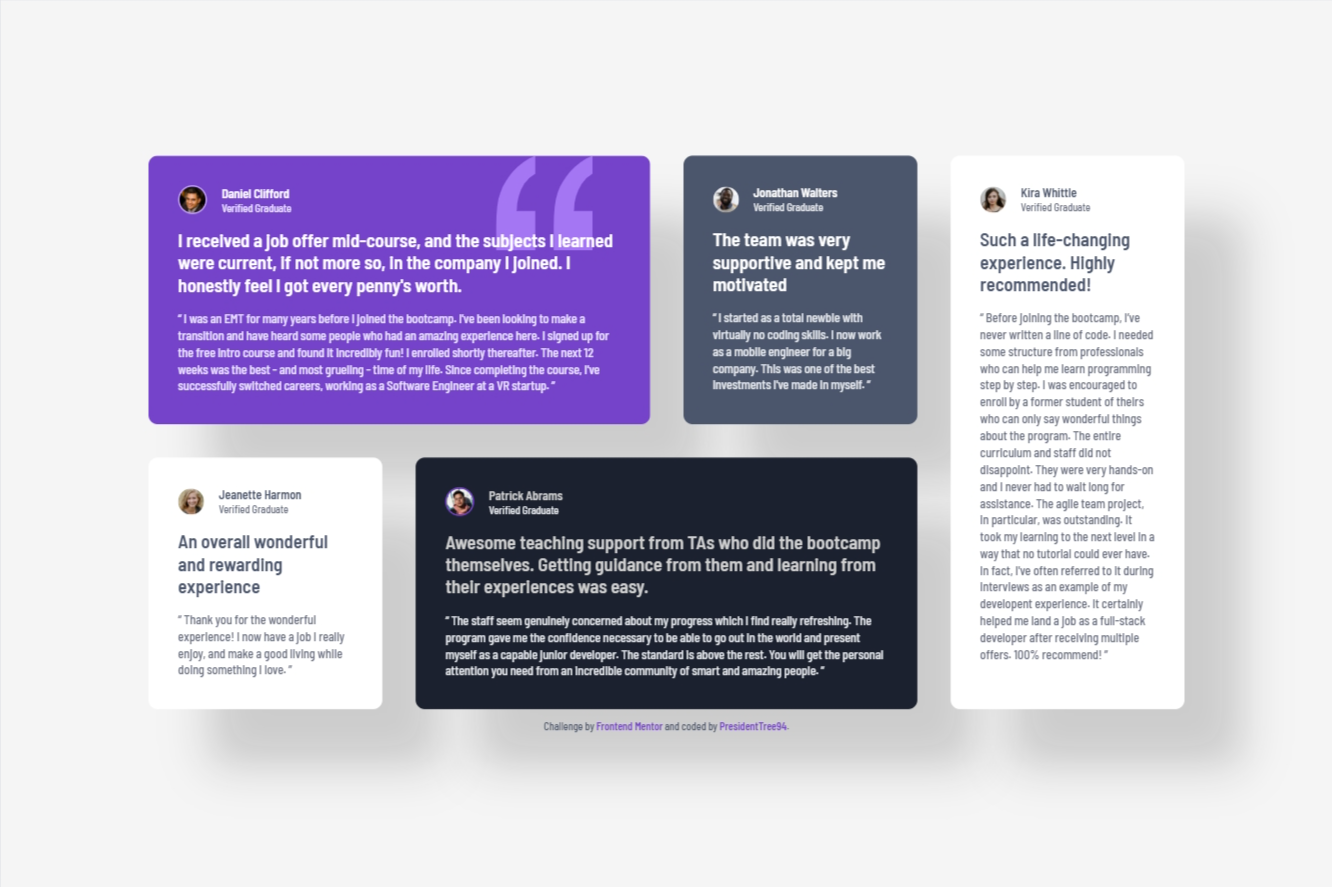
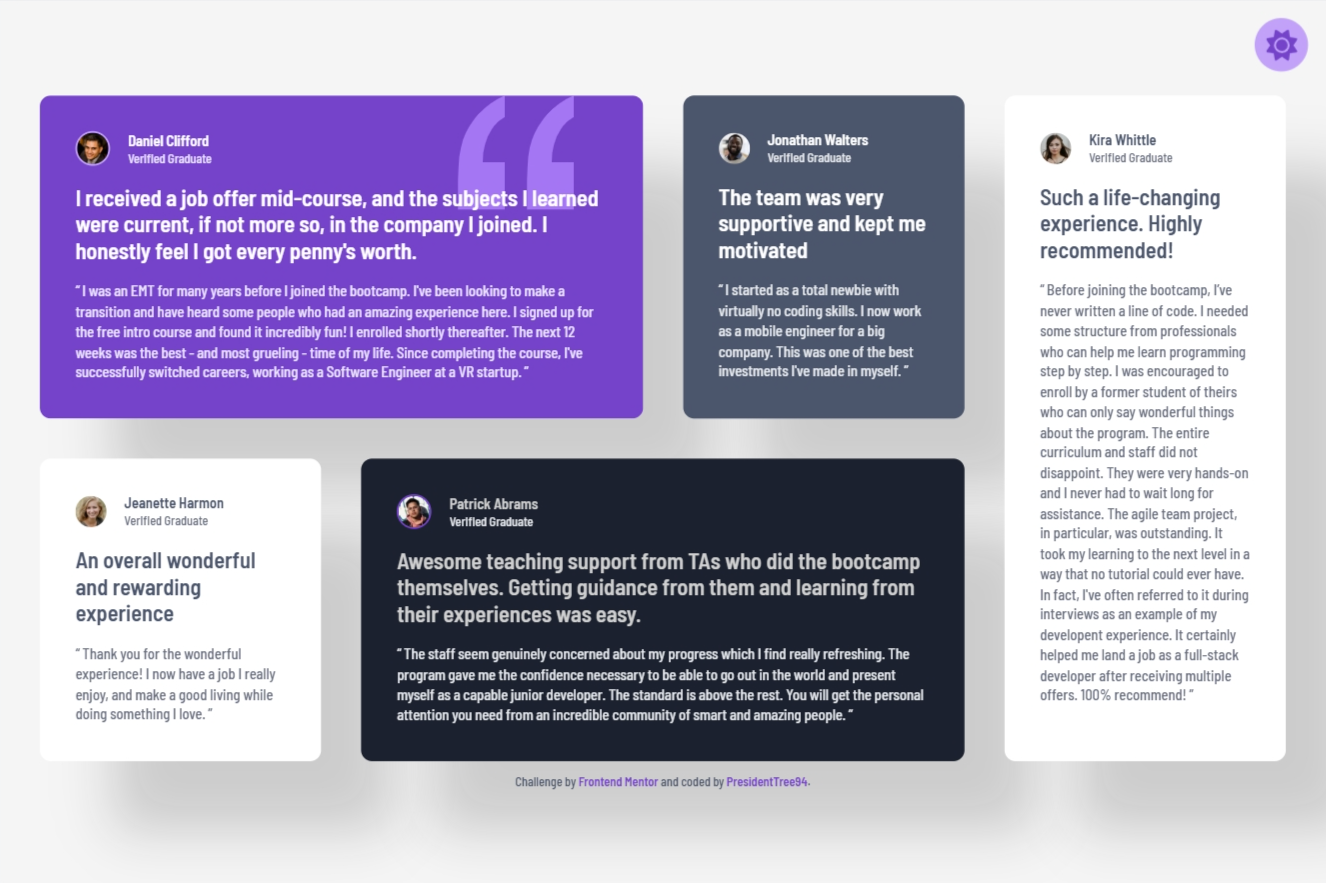
Add files via upload

diff --git a/alt-mode/toggle.js b/alt-mode/toggle.js
@@ -1,0 +1,54 @@
+//Find the toggle button and generate an empty SVG
+const toggleButton = document.getElementById("toggle");
+const icon = document.createElementNS("http://www.w3.org/2000/svg", "svg");
+icon.setAttribute("xmlns", "http://www.w3.org/2000/svg");
+const path = document.createElementNS("http://www.w3.org/2000/svg", "path");
+icon.appendChild(path);
+toggleButton.appendChild(icon);
+
+//Constants for the local storage key, mode class, and icons
+const ALT_MODE_KEY = "alt-mode";
+const ALT_MODE_CLASS = "altMode";
+const MOON_ICON = {
+  viewBox: "0 0 384 512",
+  path: "M223.5 32C100 32 0 132.3 0 256S100 480 223.5 480c60.6 0 115.5-24.2 155.8-63.4c5-4.9 6.3-12.5 3.1-18.7s-10.1-9.7-17-8.5c-9.8 1.7-19.8 2.6-30.1 2.6c-96.9 0-175.5-78.8-175.5-176c0-65.8 36-123.1 89.3-153.3c6.1-3.5 9.2-10.5 7.7-17.3s-7.3-11.9-14.3-12.5c-6.3-.5-12.6-.8-19-.8z"
+};
+const SUN_ICON = {
+  viewBox: "0 0 512 512",
+  path: "M361.5 1.2c5 2.1 8.6 6.6 9.6 11.9L391 121l107.9 19.8c5.3 1 9.8 4.6 11.9 9.6s1.5 10.7-1.6 15.2L446.9 256l62.3 90.3c3.1 4.5 3.7 10.2 1.6 15.2s-6.6 8.6-11.9 9.6L391 391 371.1 498.9c-1 5.3-4.6 9.8-9.6 11.9s-10.7 1.5-15.2-1.6L256 446.9l-90.3 62.3c-4.5 3.1-10.2 3.7-15.2 1.6s-8.6-6.6-9.6-11.9L121 391 13.1 371.1c-5.3-1-9.8-4.6-11.9-9.6s-1.5-10.7 1.6-15.2L65.1 256 2.8 165.7c-3.1-4.5-3.7-10.2-1.6-15.2s6.6-8.6 11.9-9.6L121 121 140.9 13.1c1-5.3 4.6-9.8 9.6-11.9s10.7-1.5 15.2 1.6L256 65.1 346.3 2.8c4.5-3.1 10.2-3.7 15.2-1.6zM160 256a96 96 0 1 1 192 0 96 96 0 1 1 -192 0zm224 0a128 128 0 1 0 -256 0 128 128 0 1 0 256 0z"
+};
+
+//Sets the icon to represent the mode depending on data-default
+function setIcon(isAltMode) {
+  const defaultMode = toggleButton.dataset.default;
+  const iconData = defaultMode === "moon" ? isAltMode ? SUN_ICON : MOON_ICON : 
+  defaultMode === "sun" ? isAltMode ? MOON_ICON : SUN_ICON : null;
+  icon.setAttribute("viewBox", iconData.viewBox);
+  path.setAttribute("d", iconData.path);
+}
+
+//Initializes the mode, sets the current one
+function initMode() {
+  const altMode = localStorage.getItem(ALT_MODE_KEY) === "true";
+
+  if (altMode) {
+    document.body.classList.add(ALT_MODE_CLASS);
+  } else {
+    document.body.classList.remove(ALT_MODE_CLASS);
+  }
+
+  setIcon(altMode);
+}
+
+//Toggles the mode, temporarily disabling transitions (except #toggle)
+function toggleMode() {
+  document.body.classList.add("disable-transitions");
+  const altMode = document.body.classList.toggle(ALT_MODE_CLASS);
+  localStorage.setItem(ALT_MODE_KEY, altMode);
+  setIcon(altMode);
+  void document.body.offsetWidth;
+  setTimeout(() => { document.body.classList.remove("disable-transitions"); }, 10);
+}
+
+initMode();
+toggleButton.addEventListener("click", toggleMode);

diff --git a/index.html b/index.html
@@ -4,6 +4,8 @@
   <meta charset="UTF-8">
   <meta name="viewport" content="width=device-width, initial-scale=1.0">
   <link rel="icon" type="image/png" sizes="32x32" href="./images/favicon-32x32.png">
+  <link rel="stylesheet" href="style.css">
+  <link rel="stylesheet" href="alt-mode/toggle-style.css">
   <link rel="preconnect" href="https://fonts.googleapis.com">
   <link rel="preconnect" href="https://fonts.gstatic.com" crossorigin>
   <link href="https://fonts.googleapis.com/css2?family=Barlow+Semi+Condensed:ital,wght@0,100;0,200;0,300;0,400;0,500;0,600;0,700;0,800;0,900;1,100;1,200;1,300;1,400;1,500;1,600;1,700;1,800;1,900&display=swap" rel="stylesheet">
@@ -12,6 +14,7 @@
 </head>
 <body>
   <div class="container">
+    <div id="toggle" data-default="sun"></div>
     <main>
       <section>
         <article class="daniel">
@@ -75,5 +78,6 @@
       </footer>
     </main>
   </div>
+  <script src="alt-mode/toggle.js"></script>
 </body>
 </html>

diff --git a/style.css b/style.css
@@ -11,6 +11,15 @@
   --antiFlashWhite: rgb(231, 234, 238);
 }
 
+.altMode {
+  --whiteSmoke: rgb(10, 10, 10);
+  --blueViolet: rgb(92, 40, 175);
+  --mauve: rgb(171, 137, 221);
+  --paynesGray: rgb(97, 110, 131);
+  --white: rgb(230, 230, 230);
+  --raisinBlack: rgb(50, 58, 71);
+}
+
 * {
   margin: 0;
   padding: 0;
@@ -33,6 +42,14 @@ body {
   display: flex;
   justify-content: center;
   align-items: center;
+}
+
+#toggle {
+  background-color: var(--mauve);
+}
+
+svg {
+  fill: var(--blueViolet);
 }
 
 main {

diff --git a/alt-mode/toggle-style.css b/alt-mode/toggle-style.css
@@ -1,0 +1,25 @@
+#toggle {
+  position: fixed;
+  top: 1rem;
+  right: 1rem;
+  border-radius: 100%;
+  display: flex;
+  justify-content: center;
+  align-items: center;
+  height: 3rem;
+  width: 3rem;
+  z-index: 1;
+  transition: transform 0.3s ease;
+}
+
+#toggle:hover {
+  cursor: pointer;
+}
+
+#toggle:active {
+  transform: scale(0.9);
+}
+
+svg {
+  height: 1.75rem;
+}

diff --git a/alt-mode/README.md b/alt-mode/README.md
@@ -1,0 +1,16 @@
+# Instructions for Light/Dark Mode
+These are the instructions for how to use Light/Dark Mode in a project. The script creates a SVG, `MOON_ICON` or `SUN_ICON`, and uses it to initialize the `#toggle` button. The default SVG is determined by the value set in the `data-default` attribute. The user can select the button to toggle the mode, which toggles `.altMode` on `body`, and the mode is saved in local storage to persist.
+
+## Requirements
+- The "alt-mode" folder and all its contents:
+  - toggle-style.css
+  - toggle.js
+
+## Steps
+1. Add a `<link>` to the HTML to the path of `toggle-style.css`, under the initial stylesheet.
+2. Add a `<script>` to the HTML to the path of `toggle.js`, just before the closing tag of the `body`.
+3. Add `<div id="toggle"></div>` to the HTML, where it can be placed in the top-right of the page.
+4. Add a `data-default` attribute to `#toggle`, and set it to "sun" or "moon."
+5. Assign colors to `#toggle` and the `svg` in the CSS.
+6. Add `.altMode` to the CSS and redefine the CSS color variables.
+7. Add `.disable-transitions *:not(#toggle) { transition: none !important; }` to the CSS if transitions conflict during mode switches.

diff --git a/README.md b/README.md
@@ -7,6 +7,9 @@ As part of the [Building responsive layouts](https://www.frontendmentor.io/learn
 ### Screenshot
 ![Screenshot of desktop version](images/screenshot.png)
 
+### Modifications
+I added Dark Mode to the website. The `alt-mode` folder contains a separate README explaining how it works. The button is located in the top-right corner of the page and scales down slightly when selected.
+
 ### Links
 - Solution URL: [Frontend Mentor Solution Page](https://www.frontendmentor.io/solutions/four-card-feature-section-VILMXR5SVO)
 - Live Site URL: [GitHub Page](https://presidenttree94.github.io/testimonials-grid-section/)
